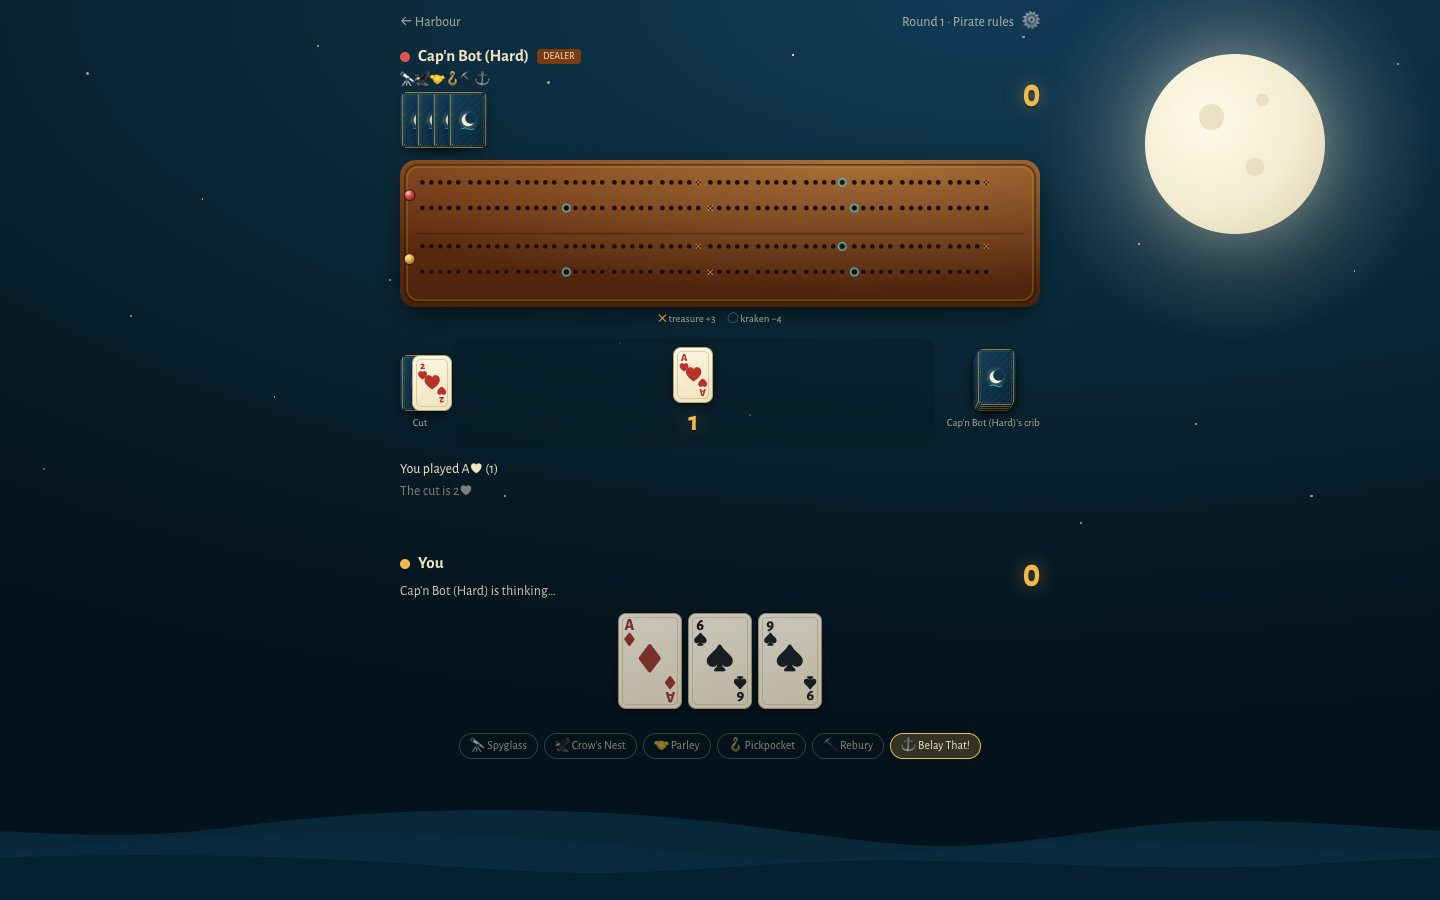
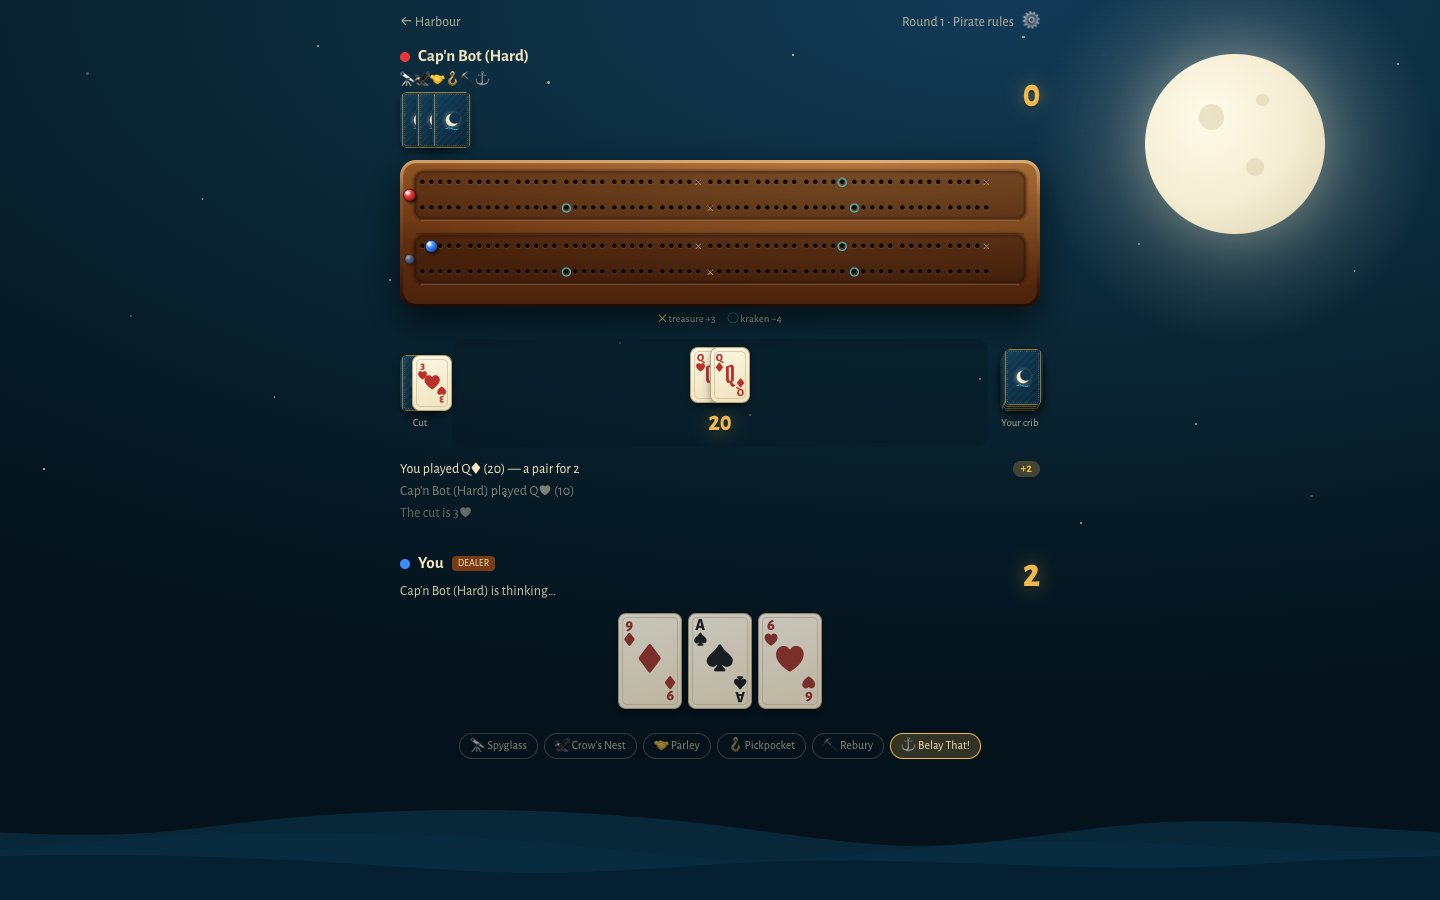
Pirate Cribbage 0.8.1: carved board with blue and red pegs

diff --git a/agent932-pirate-cribbage/apps/web/src/components/Board.tsx b/agent932-pirate-cribbage/apps/web/src/components/Board.tsx
@@ -1,3 +1,4 @@
+import { useId } from "react";
 import { KRAKEN_HOLES, TREASURE_HOLES, type RuleSet } from "@pirate/engine";
 
 interface BoardProps {
@@ -5,17 +6,20 @@ interface BoardProps {
   backPegs: [number, number];
   rules: RuleSet;
   names: [string, string];
-  /** Your seat: your lane is drawn at the bottom, in gold. */
+  /** Your seat: your lane is drawn at the bottom, with blue pegs (the opponent's are red). */
   me?: 0 | 1;
 }
 
+const W = 400;
+const H = 92;
 const HOLES_PER_ROW = 60;
 const GAP = 5.6;
 const X0 = 14;
-/** Peg fills: brass for you, coral for your opponent (gradients defined in the SVG). */
-const PEG = ["url(#peg-brass)", "url(#peg-coral)"];
 
-/** Hole n (1..120) → position. Each player has two lanes: 1–60 left to right, 61–120 back. */
+/** Peg colours: blue for you, red for your opponent (same as the dots by each name). */
+export const PEG_COLORS = { me: "#3d8bfd", opponent: "#e5383b" };
+
+/** Hole n (1..120) → position. Each player has two rows: 1–60 left to right, 61–120 back. */
 function holeXY(n: number, lane: number) {
   const row = n <= HOLES_PER_ROW ? 0 : 1;
   const i = row === 0 ? n - 1 : 2 * HOLES_PER_ROW - n;
@@ -29,63 +33,127 @@ function pegXY(score: number, lane: number) {
   return holeXY(score, lane);
 }
 
+/** One player's two rows, as a channel carved into the board. */
+const laneRect = (lane: number) => ({ x: 9, y: 7 + lane * 40, width: W - 18, height: 30, rx: 6 });
+
+/** A carved wooden cribbage board: bevelled edge, recessed lanes, drilled holes, shadowed pegs. */
 export function Board({ scores, backPegs, rules, names, me = 0 }: BoardProps) {
+  // Unique ids so two boards on one page never share gradients.
+  const id = useId().replace(/:/g, "");
+  const ref = (name: string) => `url(#${id}-${name})`;
   const pirate = rules.pirate;
   const lanes = [1 - me, me]; // opponent on top, you below
-  const color = (seat: number) => (seat === me ? PEG[0] : PEG[1]);
+
+  function peg(seat: number, score: number, lane: number, back: boolean) {
+    const { x, y } = pegXY(score, lane);
+    // Bigger than a real peg so it reads at phone size.
+    const r = back ? 3 : 3.8;
+    return (
+      <g
+        key={`${seat}-${back ? "back" : "front"}`}
+        style={{ transform: `translate(${x}px, ${y}px)`, transition: "transform 600ms ease" }}
+        opacity={back ? 0.55 : 1}
+      >
+        <circle cx={1.1} cy={1.5} r={r} fill="#000" opacity={0.45} filter={ref("soft")} />
+        <circle
+          r={r}
+          fill={seat === me ? ref("blue") : ref("red")}
+          stroke="#1e0d04"
+          strokeWidth={0.4}
+        />
+        <circle cx={-r * 0.35} cy={-r * 0.4} r={r * 0.32} fill="#fff" opacity={0.7} />
+      </g>
+    );
+  }
+
   return (
     <figure className="w-full">
       <svg
-        viewBox="0 0 400 92"
-        className="w-full rounded-xl shadow-[0_10px_30px_-10px_rgba(0,0,0,0.8)]"
+        viewBox={`0 0 ${W} ${H}`}
+        className="w-full drop-shadow-[0_14px_18px_rgba(0,0,0,0.6)]"
         role="img"
         aria-label={`Board: ${names[0]} ${scores[0]}, ${names[1]} ${scores[1]}`}
       >
         <defs>
-          <linearGradient id="wood" x1="0" y1="0" x2="0" y2="1">
-            <stop offset="0" stopColor="#7a3d17" />
-            <stop offset="0.5" stopColor="#5e2c10" />
+          <linearGradient id={`${id}-wood`} x1="0" y1="0" x2="0" y2="1">
+            <stop offset="0" stopColor="#8a4a1e" />
+            <stop offset="0.5" stopColor="#64300f" />
             <stop offset="1" stopColor="#4a220c" />
           </linearGradient>
-          <radialGradient id="lantern" cx="0.72" cy="0" r="0.9">
+          <linearGradient id={`${id}-bevel`} x1="0" y1="0" x2="0" y2="1">
+            <stop offset="0" stopColor="#ffd9a0" stopOpacity="0.55" />
+            <stop offset="0.25" stopColor="#ffd9a0" stopOpacity="0.08" />
+            <stop offset="0.8" stopColor="#000" stopOpacity="0.15" />
+            <stop offset="1" stopColor="#000" stopOpacity="0.6" />
+          </linearGradient>
+          <radialGradient id={`${id}-lantern`} cx="0.72" cy="0" r="0.9">
             <stop offset="0" stopColor="#ffcf7a" stopOpacity="0.35" />
             <stop offset="1" stopColor="#ffcf7a" stopOpacity="0" />
           </radialGradient>
-          <radialGradient id="peg-brass" cx="0.35" cy="0.3" r="0.7">
-            <stop offset="0" stopColor="#fff1c2" />
-            <stop offset="0.45" stopColor="#f2b84b" />
-            <stop offset="1" stopColor="#9a6a17" />
+          <radialGradient id={`${id}-drill`} cx="0.5" cy="0.35" r="0.6">
+            <stop offset="0" stopColor="#000" />
+            <stop offset="0.7" stopColor="#140802" />
+            <stop offset="1" stopColor="#3a1a08" />
           </radialGradient>
-          <radialGradient id="peg-coral" cx="0.35" cy="0.3" r="0.7">
+          <radialGradient id={`${id}-blue`} cx="0.35" cy="0.3" r="0.75">
+            <stop offset="0" stopColor="#d6e8ff" />
+            <stop offset="0.45" stopColor={PEG_COLORS.me} />
+            <stop offset="1" stopColor="#123f8f" />
+          </radialGradient>
+          <radialGradient id={`${id}-red`} cx="0.35" cy="0.3" r="0.75">
             <stop offset="0" stopColor="#ffd0c8" />
-            <stop offset="0.45" stopColor="#e05252" />
-            <stop offset="1" stopColor="#8f2626" />
+            <stop offset="0.45" stopColor={PEG_COLORS.opponent} />
+            <stop offset="1" stopColor="#7f1416" />
           </radialGradient>
+          <filter id={`${id}-soft`} x="-1" y="-1" width="3" height="3">
+            <feGaussianBlur stdDeviation="0.7" />
+          </filter>
+          <filter id={`${id}-inset`} x="-0.1" y="-0.5" width="1.2" height="2">
+            <feGaussianBlur stdDeviation="0.8" />
+          </filter>
         </defs>
-        {/* Wood, lit by a lantern above, with a carved border. */}
-        <rect width="400" height="92" rx="10" fill="url(#wood)" />
-        <rect width="400" height="92" rx="10" fill="url(#lantern)" />
+
+        {/* Wood, lit by a lantern above, with a lit bevel on top and shadow underneath. */}
+        <rect width={W} height={H} rx={10} fill={ref("wood")} />
+        <rect width={W} height={H} rx={10} fill={ref("lantern")} />
         <rect
-          x="3"
-          y="3"
-          width="394"
-          height="86"
-          rx="8"
+          x={1}
+          y={1}
+          width={W - 2}
+          height={H - 2}
+          rx={9}
           fill="none"
-          stroke="#2e1406"
-          strokeOpacity="0.55"
+          stroke={ref("bevel")}
+          strokeWidth={2}
         />
-        <rect
-          x="4.5"
-          y="4.5"
-          width="391"
-          height="83"
-          rx="7"
-          fill="none"
-          stroke="#c9962c"
-          strokeOpacity="0.3"
-        />
-        <line x1="10" y1="46" x2="390" y2="46" stroke="#2e1406" strokeOpacity="0.4" />
+
+        {[0, 1].map((lane) => {
+          const r = laneRect(lane);
+          return (
+            <g key={lane}>
+              {/* Recessed channel: darker floor, shadowed top lip, lit bottom lip. */}
+              <rect {...r} fill="#2a1206" opacity={0.42} />
+              <rect
+                {...r}
+                fill="none"
+                stroke="#120700"
+                strokeOpacity={0.55}
+                strokeWidth={1.2}
+                filter={ref("inset")}
+              />
+              <line
+                x1={r.x + 4}
+                y1={r.y + r.height + 0.8}
+                x2={r.x + r.width - 4}
+                y2={r.y + r.height + 0.8}
+                stroke="#ffcf9a"
+                strokeOpacity={0.22}
+              />
+            </g>
+          );
+        })}
+        <line x1={10} y1={46} x2={W - 10} y2={46} stroke="#1e0d04" strokeOpacity={0.35} />
+
         {lanes.map((seat, lane) => (
           <g key={seat}>
             {Array.from({ length: 120 }, (_, k) => {
@@ -95,37 +163,25 @@ export function Board({ scores, backPegs, rules, names, me = 0 }: BoardProps) {
               const kraken = pirate?.kraken && KRAKEN_HOLES.includes(n);
               return (
                 <g key={n}>
-                  <circle cx={x} cy={y + 0.3} r={1.5} fill="#8a4a1f" opacity={0.5} />
-                  <circle cx={x} cy={y} r={1.45} fill="#1e0d04" />
+                  {/* Drilled hole: dark depth, a lit lower rim. */}
+                  <circle cx={x} cy={y} r={1.65} fill="#f0b47a" opacity={0.18} />
+                  <circle cx={x} cy={y - 0.25} r={1.5} fill={ref("drill")} />
                   {treasure && (
                     <text x={x} y={y + 1.6} fontSize="5" textAnchor="middle" fill="#f2b84b">
                       ✕
                     </text>
                   )}
                   {kraken && (
-                    <circle cx={x} cy={y} r={2.4} fill="none" stroke="#3fb6c9" strokeWidth={0.8} />
+                    <circle cx={x} cy={y} r={2.5} fill="none" stroke="#3fb6c9" strokeWidth={0.8} />
                   )}
                 </g>
               );
             })}
-            <circle
-              cx={pegXY(backPegs[seat as 0 | 1], lane).x}
-              cy={pegXY(backPegs[seat as 0 | 1], lane).y}
-              r={2.8}
-              fill={color(seat)}
-              opacity={0.5}
-            />
-            <circle
-              cx={pegXY(scores[seat as 0 | 1], lane).x}
-              cy={pegXY(scores[seat as 0 | 1], lane).y}
-              r={3.4}
-              fill={color(seat)}
-              stroke="#1e0d04"
-              strokeWidth={0.5}
-              style={{ transition: "cx 600ms ease, cy 600ms ease" }}
-            />
           </g>
         ))}
+        {/* Pegs last, so they sit above every hole. */}
+        {lanes.map((seat, lane) => peg(seat, backPegs[seat as 0 | 1], lane, true))}
+        {lanes.map((seat, lane) => peg(seat, scores[seat as 0 | 1], lane, false))}
       </svg>
       {pirate && (pirate.treasure || pirate.kraken) && (
         <figcaption className="mt-1 text-center text-[11px] text-parchment/70">

diff --git a/agent932-pirate-cribbage/apps/web/src/screens/GameScreen.tsx b/agent932-pirate-cribbage/apps/web/src/screens/GameScreen.tsx
@@ -9,7 +9,7 @@ import {
   sameCard,
 } from "@pirate/engine";
 import { PeggyChatter } from "../brand/PeggyChatter.js";
-import { Board } from "../components/Board.js";
+import { Board, PEG_COLORS } from "../components/Board.js";
 import { SettingsButton } from "../components/SettingsButton.js";
 import { playEvents } from "../sound.js";
 import { Card } from "../components/Card.js";
@@ -363,7 +363,11 @@ function PlayerStrip({
     <section className="flex items-center justify-between gap-3" aria-label={name}>
       <div className="min-w-0">
         <div className="flex items-center gap-2">
-          <span className={`h-2.5 w-2.5 rounded-full ${you ? "bg-gold" : "bg-[#e05252]"}`} />
+          <span
+            className="h-2.5 w-2.5 rounded-full"
+            style={{ background: you ? PEG_COLORS.me : PEG_COLORS.opponent }}
+            aria-hidden
+          />
           <span className="truncate font-semibold">{name}</span>
           {dealer && <span className="rounded bg-rum px-1.5 text-[10px] uppercase">dealer</span>}
           {offline && (

diff --git a/agent932-pirate-cribbage/PLAN.md b/agent932-pirate-cribbage/PLAN.md
@@ -196,3 +196,4 @@ Suggested first set: **Buried Treasure + Kraken** (the board becomes part of the
 - **Phase 7 (polish & launch): done.** Installable app: web manifest, icons (including maskable and Apple touch), and a service worker that caches the app shell, hashed assets and fonts. It never caches the API. Guest games vs Cap'n Bot work offline (checked in Chromium with the network cut). Sound effects synthesized with Web Audio (card flicks, scoring chimes, treasure coins, kraken rumble, win/lose fanfare) behind a mute switch. Settings for sound and the bot's speed are kept per browser. `/api/health` reports version (the git commit, from the image build) and uptime. The store listing has a four-shot gallery. Fixes from launch testing: log lines no longer overlap while animating, empty "start as" win rates show "—", and the page background reaches the edges on phones.
 - **Admin tools + ranked seasons: done.** The first account is the admin (migration 0004 promotes the earliest account on existing installs). Admin page ("Captain's Quarters"): overview (players, sign-ups, matches, live games, season, build, uptime); players (search, reset password to a one-time temporary one, disable/enable with sign-out everywhere, add/remove admins, with guards against locking yourself out); live online games (end a stuck game without recording it); seasons (end the current one). Every admin action is written to the server log. Seasons: ranked matches record their season; ending a season saves final rank/rating/tier, moves every rating halfway back to 1000, resets ranked game counts and opens the next. The leaderboard shows the current season and past final standings. Players can change their password under Account. "N Hand Percent" dropped.
 - **Visuals + branding: done.** Moonlit sea theme with Peggy, a scarlet-macaw mascot in a tricorn hat (idle and squawk poses). Peggy appears on the home screen and app icon and comments on big moments; her commentary can be turned off. Backdrop: night sky, twinkling stars, haloed moon and three drifting wave layers (still under reduced motion; the moon moves out from behind text on phones). Palette: lantern gold, moonlight, tide teal and coral, with Alegreya Sans body type. Cards have parchment faces, corner indices and blackletter court letters, and a crescent-moon card back. The board is lantern-lit wood with brass and coral pegs. New icons and store gallery.
+- **Board depth (0.8.1):** four looks compared (carved tray, tilted 3D, ship's planks, brass inlay); chose the carved tray. Pegs are blue for you and red for your opponent, and the dots beside each name match.
